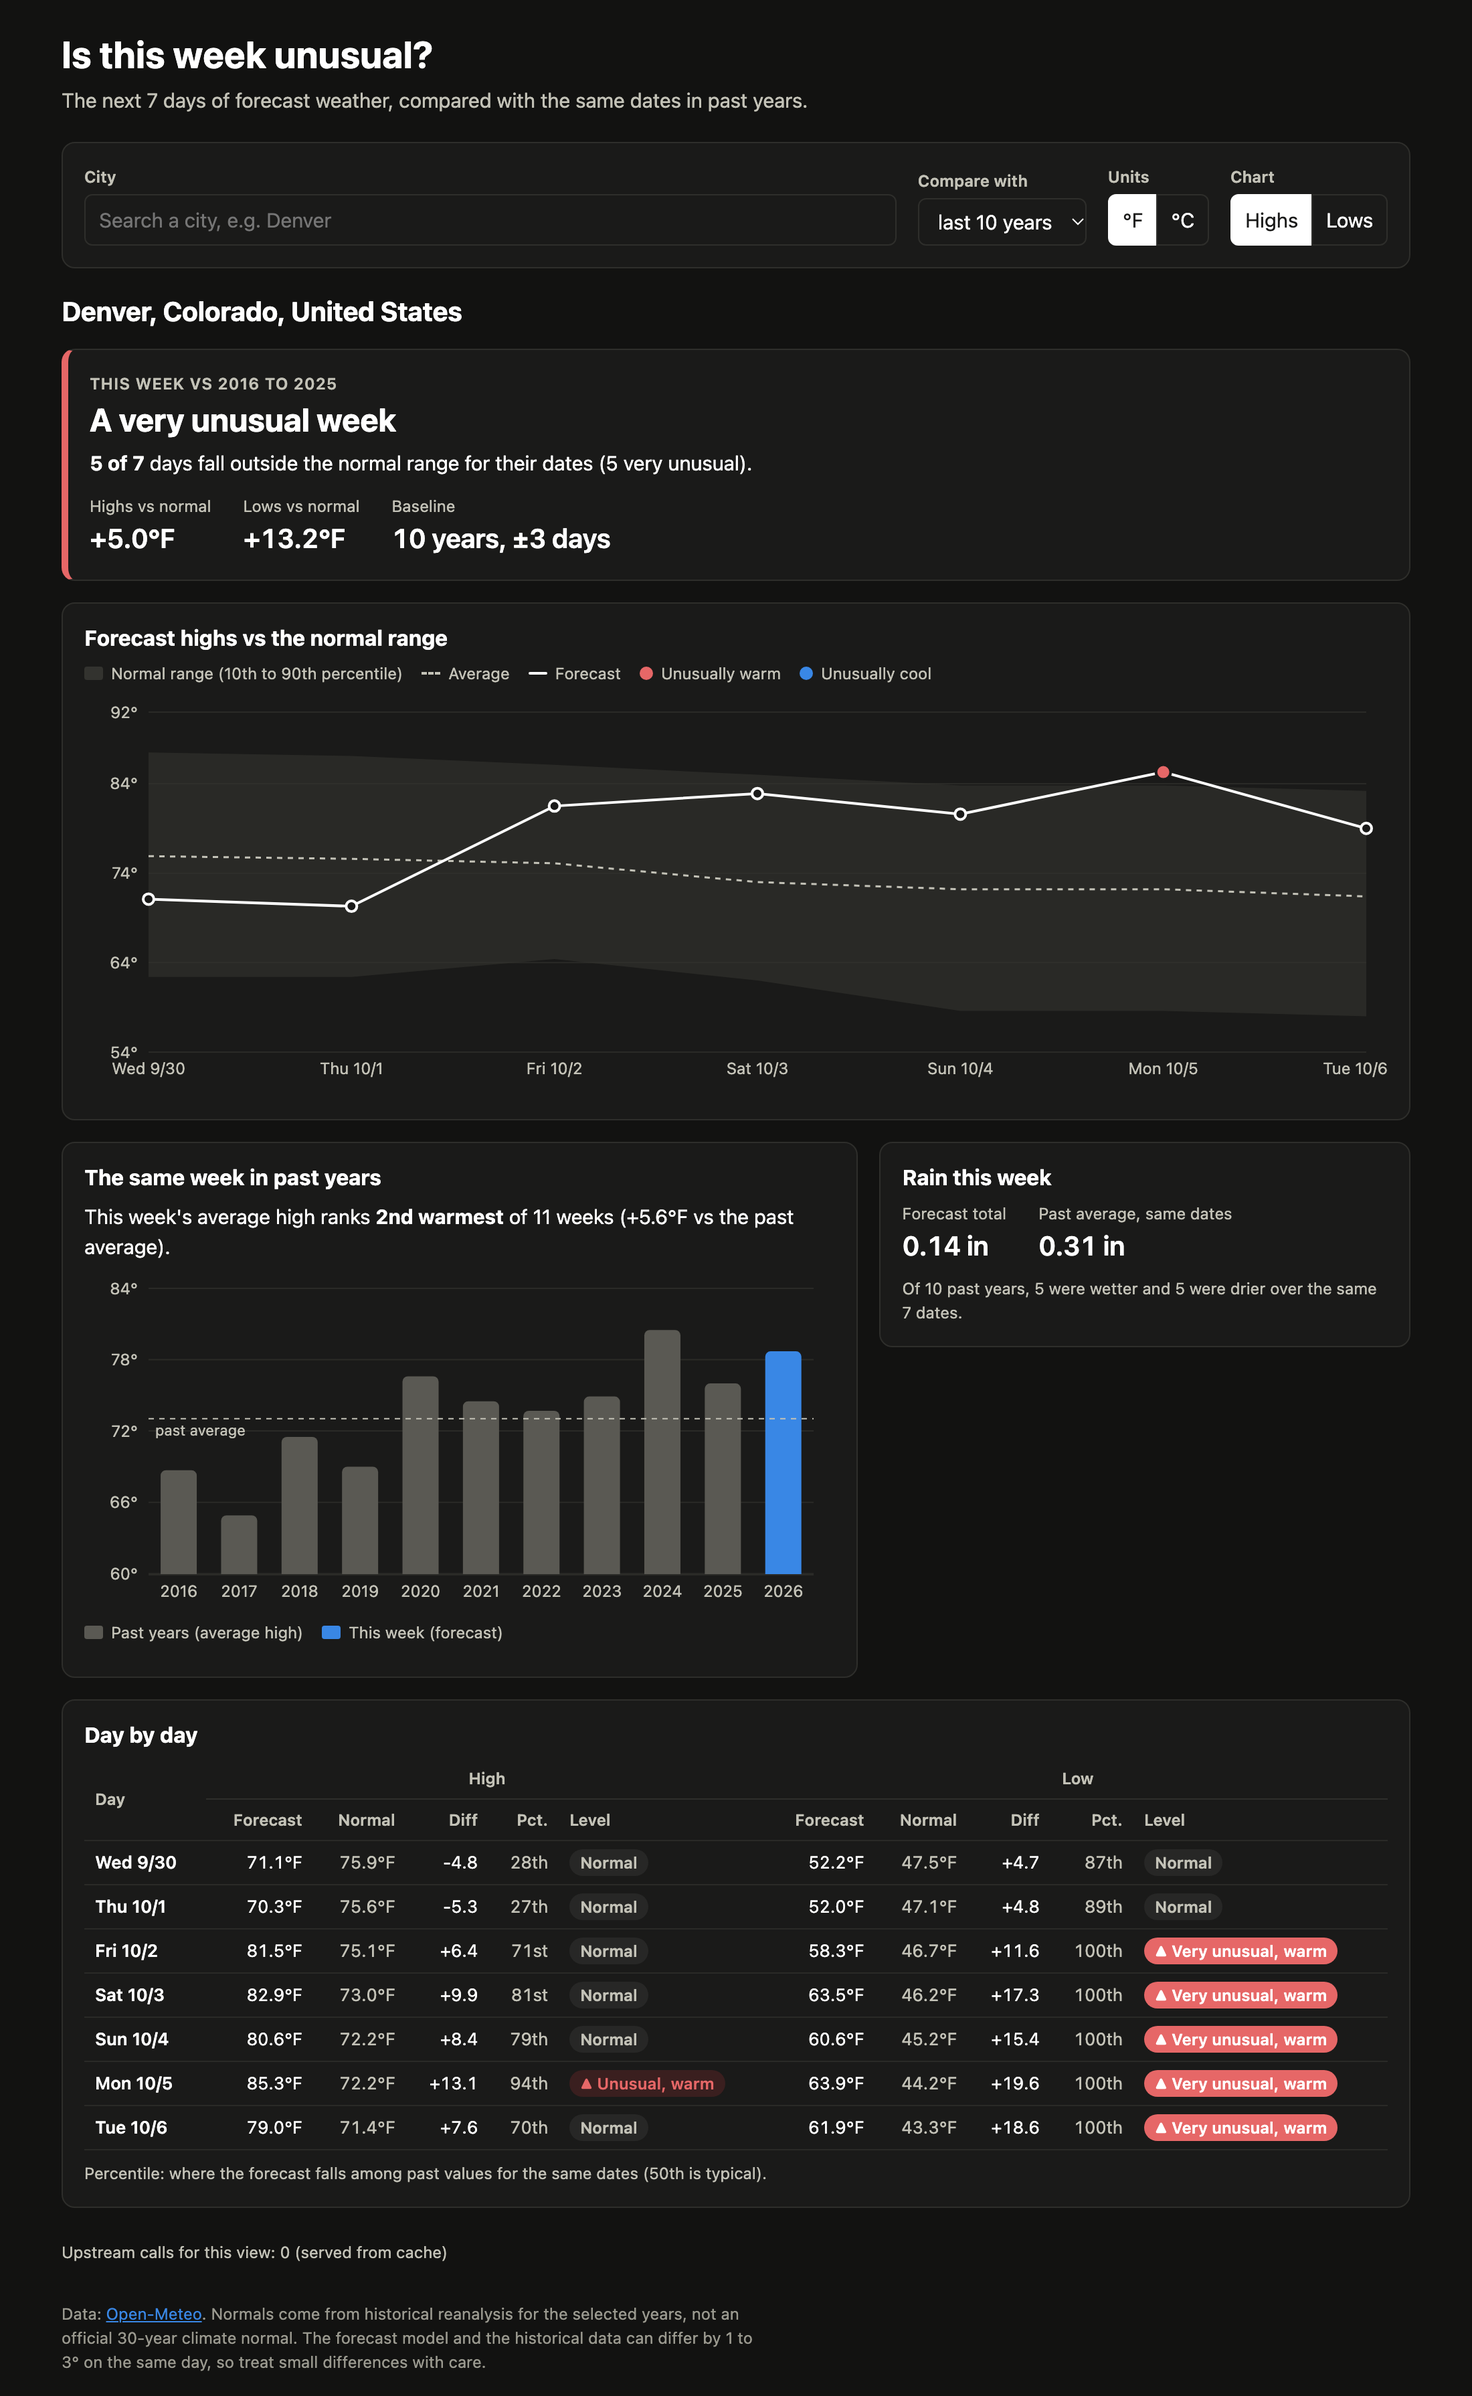
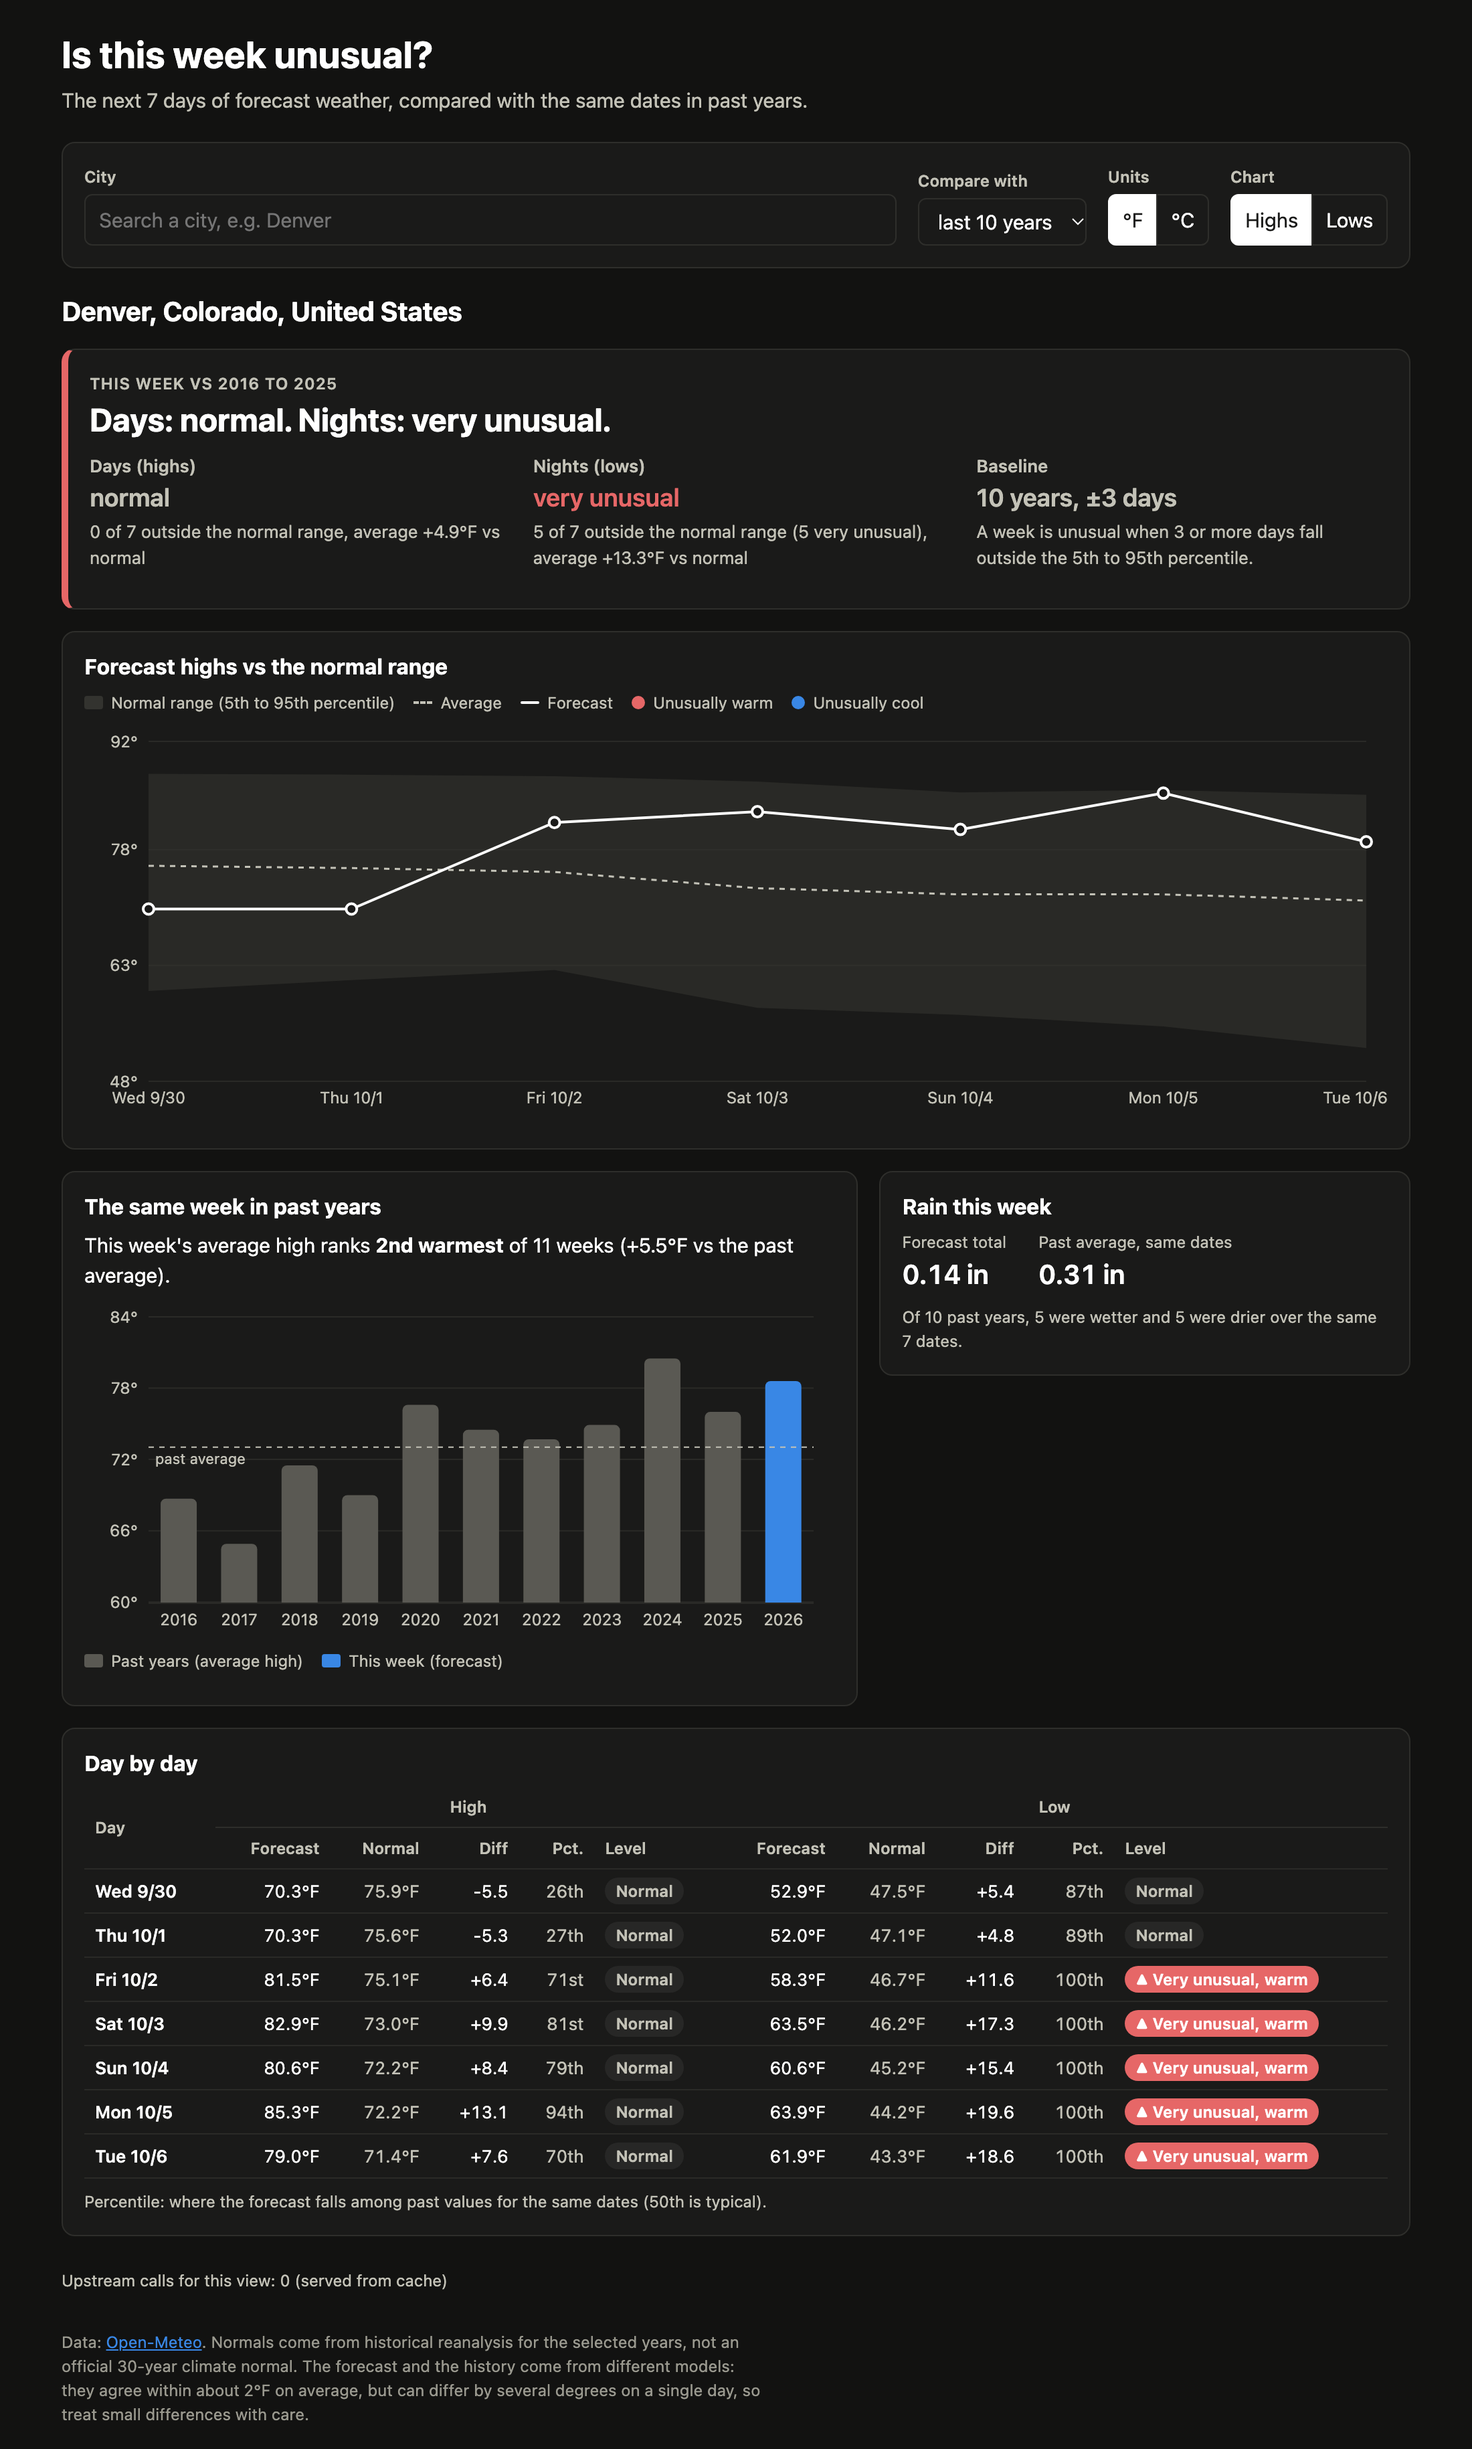
frontend: separate Days and Nights verdicts; band shows the 5th to 95th percentile
- Banner reads e.g. "Days: normal. Nights: very unusual." with counts and averages
- Chart band and tooltip use p5/p95, matching where a day is flagged
- Footer states the corrected forecast vs history gap
- Screenshots retaken

diff --git a/take-home/solution/frontend/src/components/VerdictBanner.jsx b/take-home/solution/frontend/src/components/VerdictBanner.jsx
@@ -1,32 +1,41 @@
-import { signed, VERDICT_TEXT } from '../format.js'
+import { signed, VERDICT_TEXT, worstVerdict } from '../format.js'
+
+// Days (highs) and nights (lows) get separate verdicts. They are never combined.
+function Part({ title, v, anomaly, unit }) {
+  return (
+    <div className="verdict-part">
+      <h3>{title}</h3>
+      <p className={`verdict-word v-${v.verdict}`}>{VERDICT_TEXT[v.verdict]}</p>
+      <p>
+        {v.unusual_days} of 7 outside the normal range
+        {v.very_unusual_days > 0 && <> ({v.very_unusual_days} very unusual)</>}, average{' '}
+        {signed(anomaly)}{unit} vs normal
+      </p>
+    </div>
+  )
+}
 
 export default function VerdictBanner({ data }) {
   const { week, baseline, units, warnings } = data
   const t = units.temperature
+  const overall = worstVerdict(week.highs.verdict, week.lows.verdict)
   return (
-    <section className={`card verdict verdict-${week.verdict}`}>
+    <section className={`card verdict verdict-${overall}`}>
       <p className="eyebrow">This week vs {baseline.from_year} to {baseline.to_year}</p>
-      <h2>{VERDICT_TEXT[week.verdict]}</h2>
-      <p className="verdict-detail">
-        <strong>{week.unusual_days} of 7</strong> days fall outside the normal range for their dates
-        {week.very_unusual_days > 0 && <> ({week.very_unusual_days} very unusual)</>}.
-      </p>
-      <dl className="stats">
-        <div>
-          <dt>Highs vs normal</dt>
-          <dd>{signed(week.avg_high_anomaly)}{t}</dd>
-        </div>
-        <div>
-          <dt>Lows vs normal</dt>
-          <dd>{signed(week.avg_low_anomaly)}{t}</dd>
-        </div>
-        <div>
-          <dt>Baseline</dt>
-          <dd>
+      <h2>
+        Days: {VERDICT_TEXT[week.highs.verdict]}. Nights: {VERDICT_TEXT[week.lows.verdict]}.
+      </h2>
+      <div className="verdict-parts">
+        <Part title="Days (highs)" v={week.highs} anomaly={week.avg_high_anomaly} unit={t} />
+        <Part title="Nights (lows)" v={week.lows} anomaly={week.avg_low_anomaly} unit={t} />
+        <div className="verdict-part">
+          <h3>Baseline</h3>
+          <p className="verdict-word">
             {baseline.years_used} years, ±{baseline.window_days} days
-          </dd>
+          </p>
+          <p>A week is unusual when 3 or more days fall outside the 5th to 95th percentile.</p>
         </div>
-      </dl>
+      </div>
       {warnings.length > 0 && (
         <ul className="warnings">
           {warnings.map((w) => (

diff --git a/take-home/solution/frontend/src/components/WeekChart.jsx b/take-home/solution/frontend/src/components/WeekChart.jsx
@@ -24,7 +24,7 @@ function ChartTooltip({ active, payload, unit }) {
       <strong>{d.label}</strong>
       <div>Forecast: {num(d.forecast)}{unit}</div>
       <div>Normal: {num(d.normal)}{unit} ({signed(d.anomaly)}{unit})</div>
-      <div>Normal range: {num(d.p10)} to {num(d.p90)}{unit}</div>
+      <div>Normal range: {num(d.p5)} to {num(d.p95)}{unit}</div>
       {d.pct != null && <div>{ordinal(d.pct)} percentile of past values for these dates</div>}
       <LevelBadge level={d.level} direction={d.direction} />
     </div>
@@ -37,8 +37,8 @@ export default function WeekChart({ data, measure }) {
     const v = d[measure]
     return {
       label: dayLabel(d.date),
-      band: v.p10 != null ? [v.p10, v.p90] : null,
-      normal: v.normal, p10: v.p10, p90: v.p90, forecast: v.forecast,
+      band: v.p5 != null ? [v.p5, v.p95] : null,
+      normal: v.normal, p5: v.p5, p95: v.p95, forecast: v.forecast,
       anomaly: v.anomaly, pct: v.pct_rank, level: v.level, direction: v.direction,
     }
   })
@@ -47,7 +47,7 @@ export default function WeekChart({ data, measure }) {
     <section className="card">
       <h3>Forecast {measure === 'high' ? 'highs' : 'lows'} vs the normal range</h3>
       <p className="legend">
-        <span className="key key-band" /> Normal range (10th to 90th percentile)
+        <span className="key key-band" /> Normal range (5th to 95th percentile)
         <span className="key key-normal" /> Average
         <span className="key key-forecast" /> Forecast
         <span className="key key-warm" /> Unusually warm

diff --git a/take-home/solution/frontend/src/styles.css b/take-home/solution/frontend/src/styles.css
@@ -116,8 +116,16 @@ button:hover { background: var(--hover); }
 .verdict-somewhat_unusual { border-left-color: #eda100; }
 .verdict-very_unusual { border-left-color: var(--warm); }
 .eyebrow { margin: 0 0 4px; font-size: 12px; font-weight: 600; color: var(--text-2); text-transform: uppercase; letter-spacing: 0.04em; }
-.verdict h2 { font-size: 1.5rem; }
-.verdict-detail { margin: 6px 0 12px; }
+.verdict h2 { font-size: 1.5rem; margin-bottom: 12px; }
+.verdict-parts { display: grid; grid-template-columns: repeat(auto-fit, minmax(220px, 1fr)); gap: 12px 24px; margin-bottom: 12px; }
+.verdict-part h3 { margin: 0 0 2px; font-size: 13px; color: var(--text-2); font-weight: 600; }
+.verdict-part .verdict-word { margin: 0; font-size: 1.15rem; font-weight: 600; }
+.verdict-part p { margin: 2px 0 0; font-size: 13px; color: var(--text-2); }
+.verdict-word.v-somewhat_unusual { color: #b47a00; }
+.verdict-word.v-very_unusual { color: var(--warm); }
+@media (prefers-color-scheme: dark) {
+  :root:not([data-theme='light']) .verdict-word.v-somewhat_unusual { color: #eda100; }
+}
 .stats { display: flex; flex-wrap: wrap; gap: 24px; margin: 0; }
 .stats dt { font-size: 12px; color: var(--text-2); }
 .stats dd { margin: 0; font-size: 1.25rem; font-weight: 600; font-variant-numeric: tabular-nums; }

diff --git a/take-home/solution/frontend/src/App.jsx b/take-home/solution/frontend/src/App.jsx
@@ -85,8 +85,9 @@ export default function App() {
 
       <footer className="footer">
         Data: <a href="https://open-meteo.com/">Open-Meteo</a>. Normals come from historical reanalysis
-        for the selected years, not an official 30-year climate normal. The forecast model and the
-        historical data can differ by 1 to 3° on the same day, so treat small differences with care.
+        for the selected years, not an official 30-year climate normal. The forecast and the history
+        come from different models: they agree within about 2°F on average, but can differ by several
+        degrees on a single day, so treat small differences with care.
       </footer>
     </div>
   )

diff --git a/take-home/solution/frontend/src/format.js b/take-home/solution/frontend/src/format.js
@@ -25,7 +25,10 @@ export function ordinal(n) {
 }
 
 export const VERDICT_TEXT = {
-  normal: 'A normal week',
-  somewhat_unusual: 'A somewhat unusual week',
-  very_unusual: 'A very unusual week',
+  normal: 'normal',
+  somewhat_unusual: 'somewhat unusual',
+  very_unusual: 'very unusual',
 }
+
+const RANK = { normal: 0, somewhat_unusual: 1, very_unusual: 2 }
+export const worstVerdict = (a, b) => (RANK[a] >= RANK[b] ? a : b)
